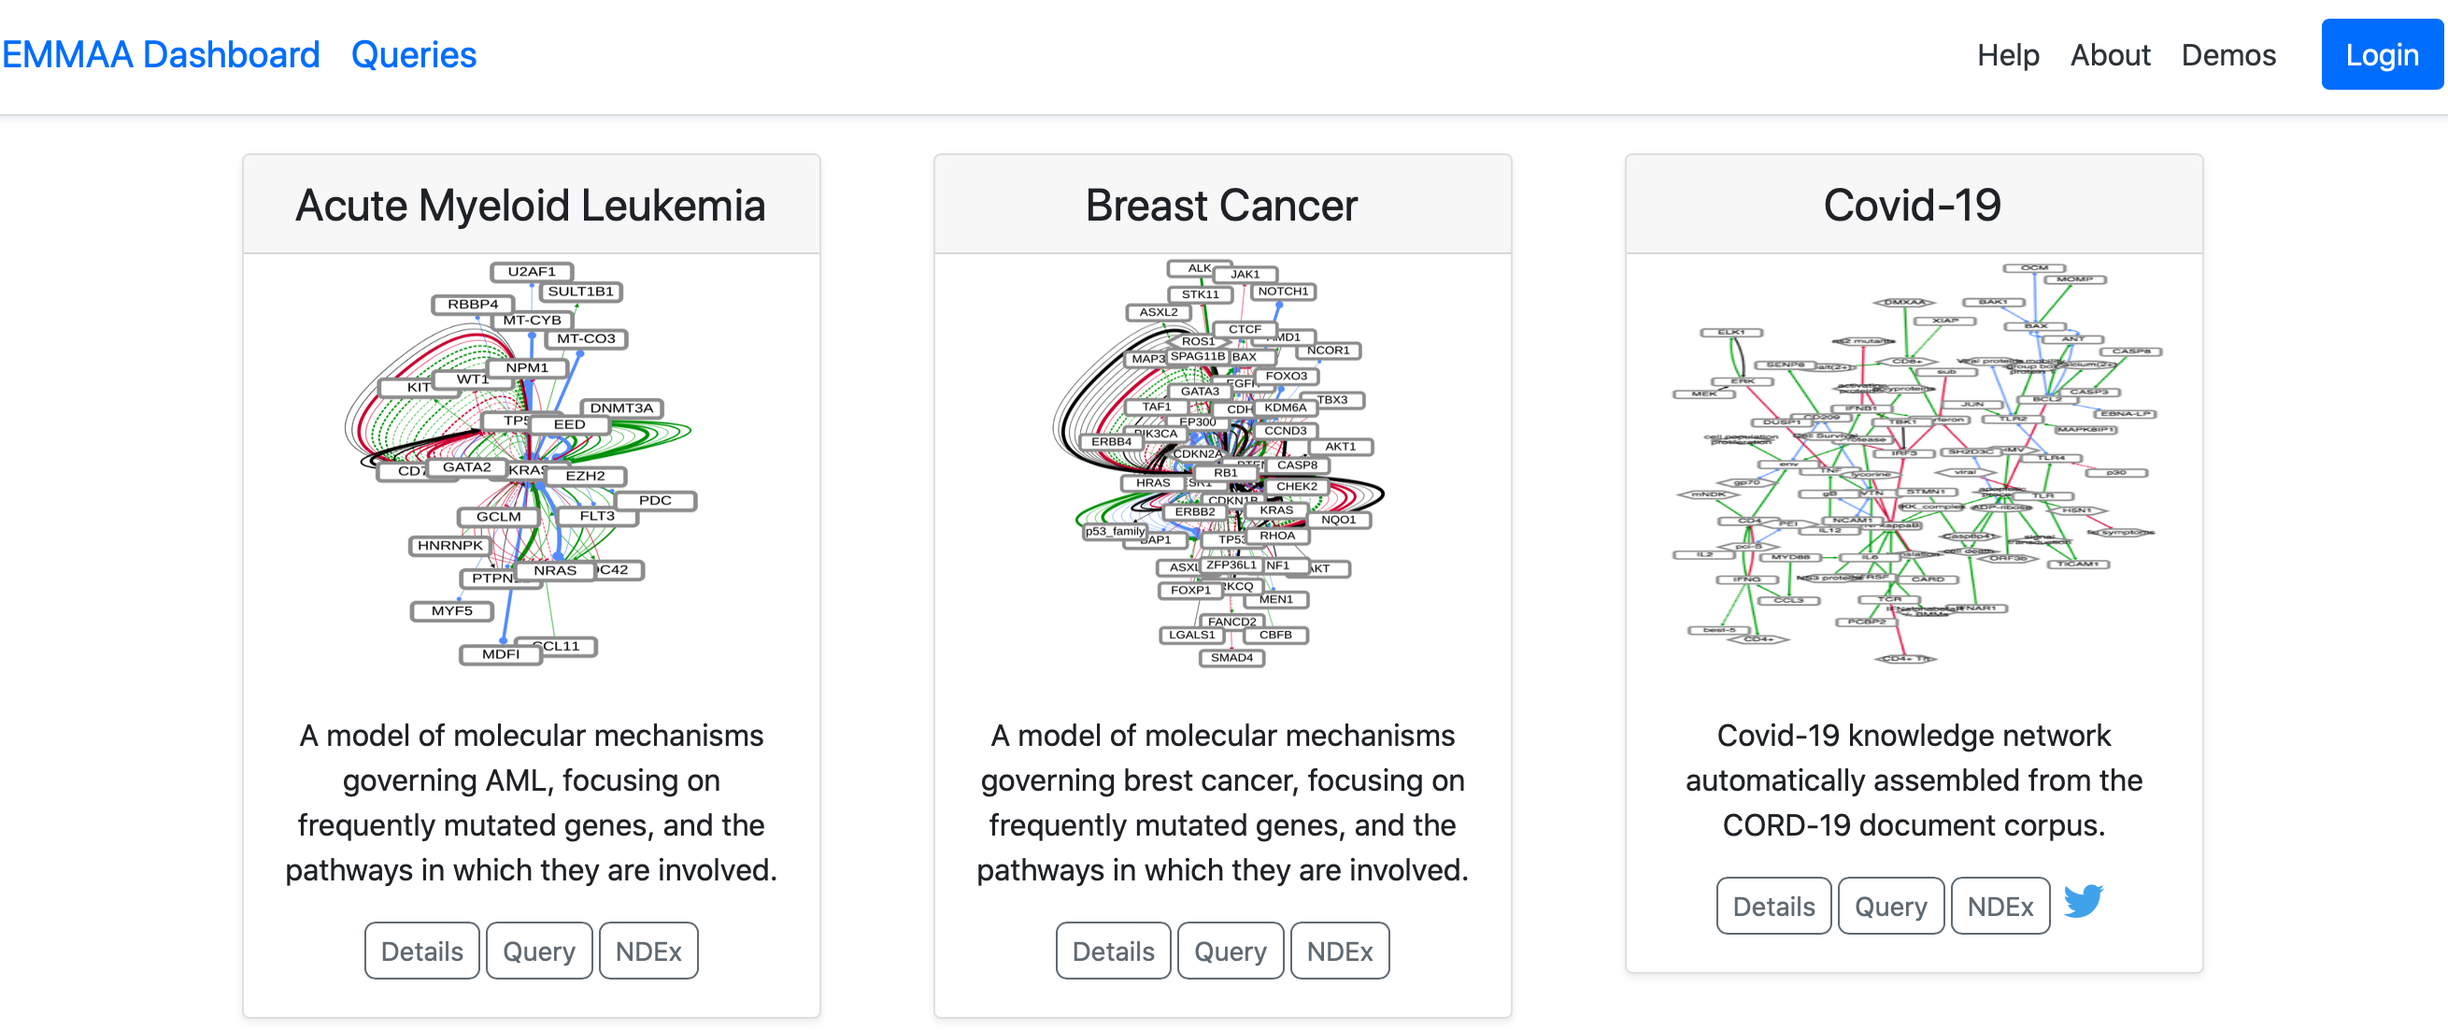
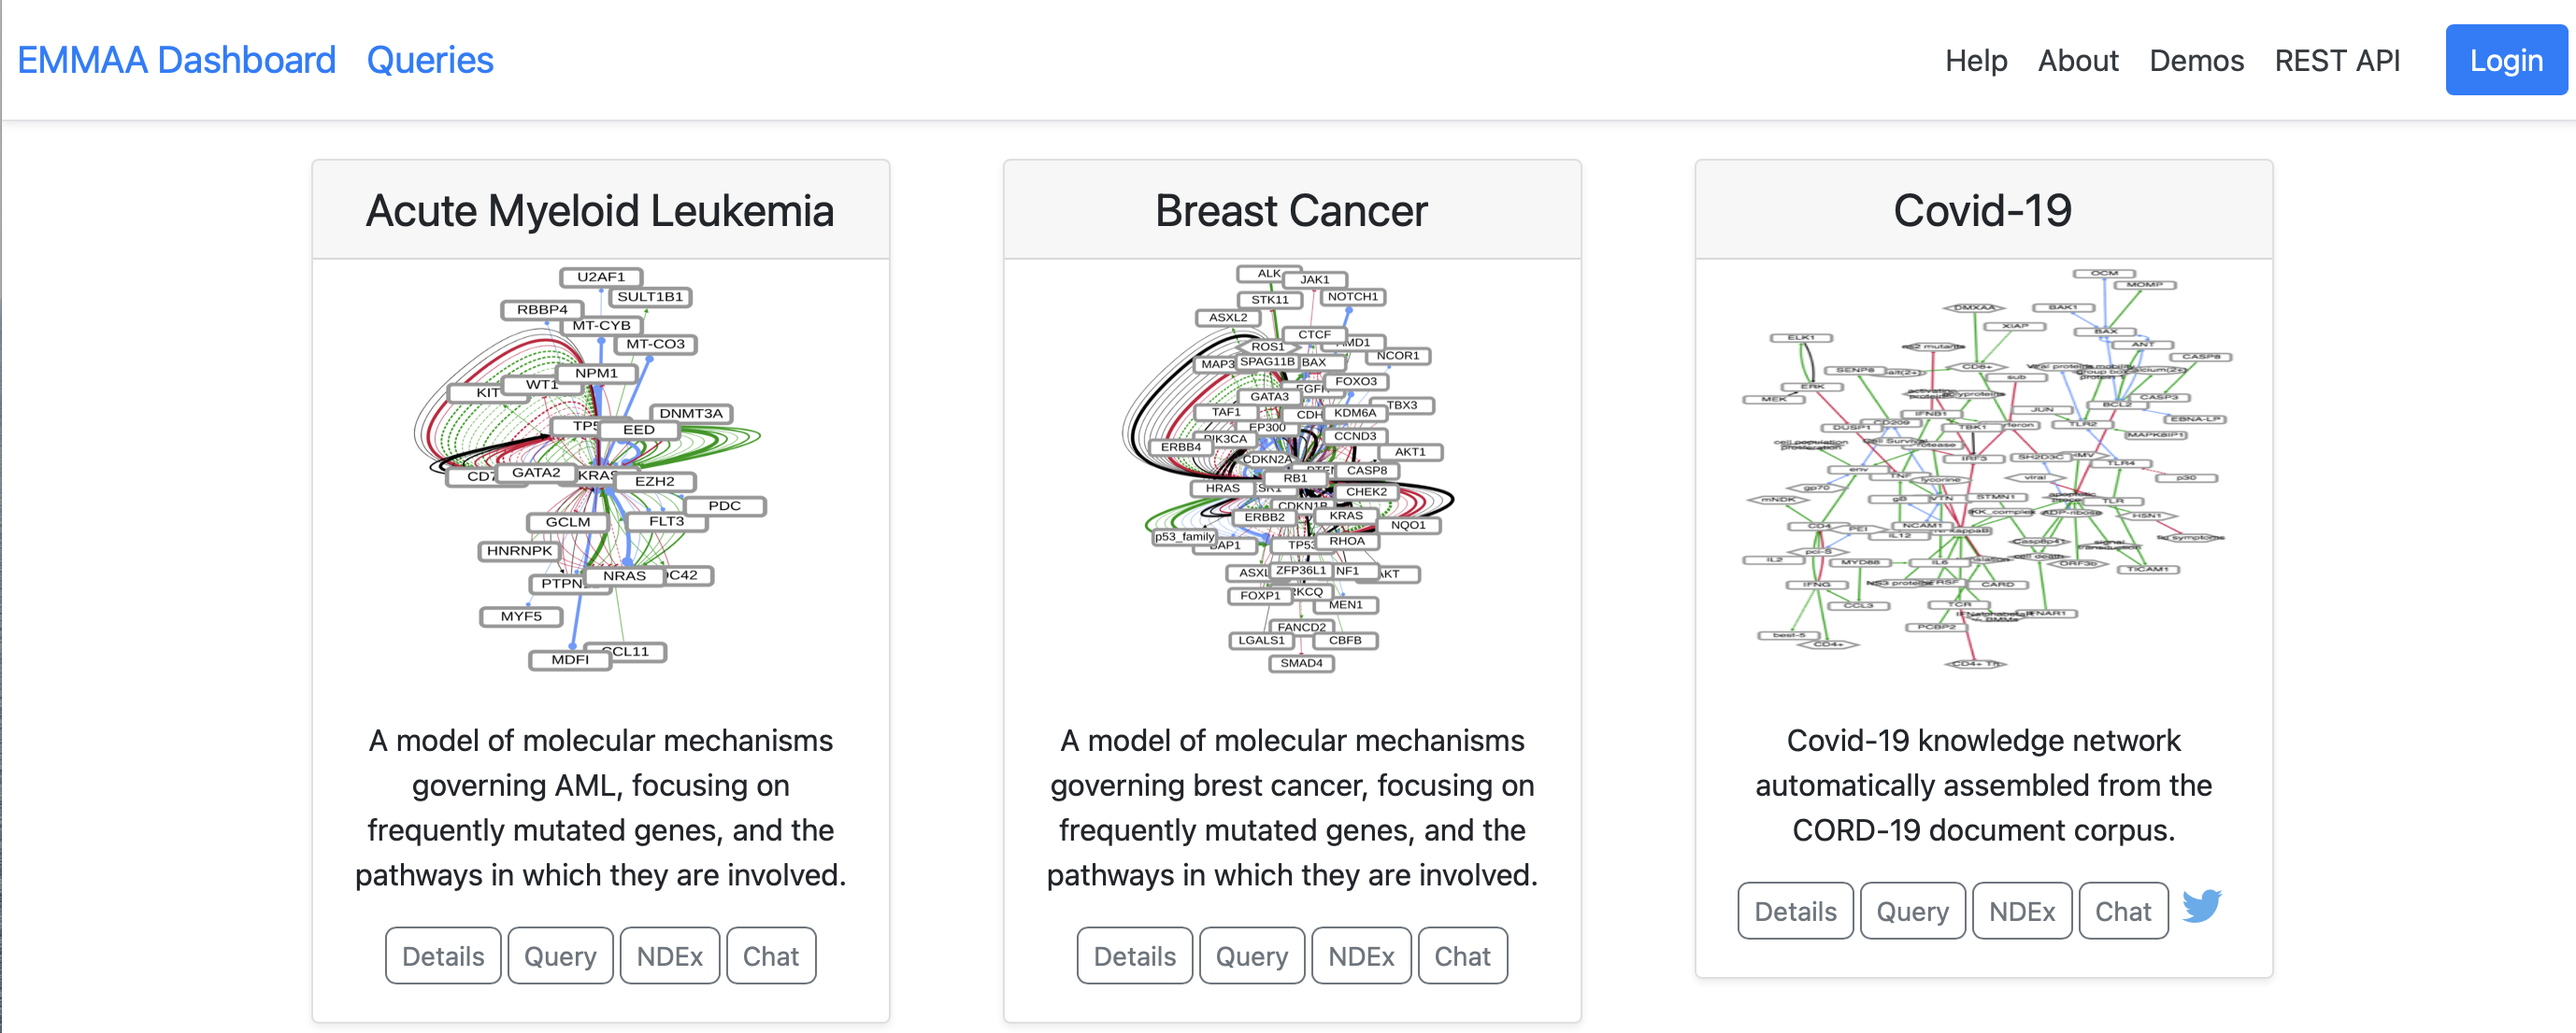
Update index page docs

diff --git a/doc/dashboard/index.rst b/doc/dashboard/index.rst
@@ -13,7 +13,9 @@ the latest tests applied to the models. The user can also navigate to a
 queries page where queries about the models can be answered. Users are able
 to sign up for specific notifications about one or more automatically
 built, tested and analyzed models. Some models also have a Twitter account and
-a link to it is provided on the dashboard if available
+a link to it is provided on the dashboard if available. To interact with a model
+in natural language, user can click on "Chat" button on the model card and the
+dialogue window will open up.
 
 
 .. image:: ../_static/images/dashboard_top.png
